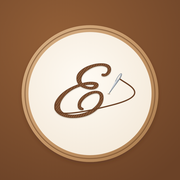
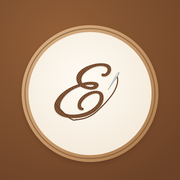
style: linha fluida seguindo a curva do E e agulha mais delicada
Claude-Session: https://claude.ai/code/session_01Vfb9uRLmoYKPsP2WywoggU

Changed region(s): [[0.3333, 0.3889, 0.7778, 0.6944]]

diff --git a/index.html b/index.html
@@ -7,10 +7,10 @@
 <title>Ela me Fez</title>
 <meta name="description" content="Necessaires, bordados, amigurumis e presentes feitos à mão. Escolha tamanho, cor e estampa e faça seu pedido pelo WhatsApp.">
 <meta name="theme-color" content="#F5EFE6">
-<link rel="icon" type="image/png" sizes="32x32" href="favicon.png?v=202611082006">
-<link rel="icon" type="image/png" sizes="192x192" href="icons/icon-192.png?v=202611082006">
-<link rel="apple-touch-icon" sizes="180x180" href="/apple-touch-icon.png?v=202611082006">
-<link rel="manifest" href="manifest.webmanifest?v=202611082006">
+<link rel="icon" type="image/png" sizes="32x32" href="favicon.png?v=202611082008">
+<link rel="icon" type="image/png" sizes="192x192" href="icons/icon-192.png?v=202611082008">
+<link rel="apple-touch-icon" sizes="180x180" href="/apple-touch-icon.png?v=202611082008">
+<link rel="manifest" href="manifest.webmanifest?v=202611082008">
 <meta name="apple-mobile-web-app-capable" content="yes">
 <meta name="mobile-web-app-capable" content="yes">
 <meta name="apple-mobile-web-app-title" content="Ela me Fez">
